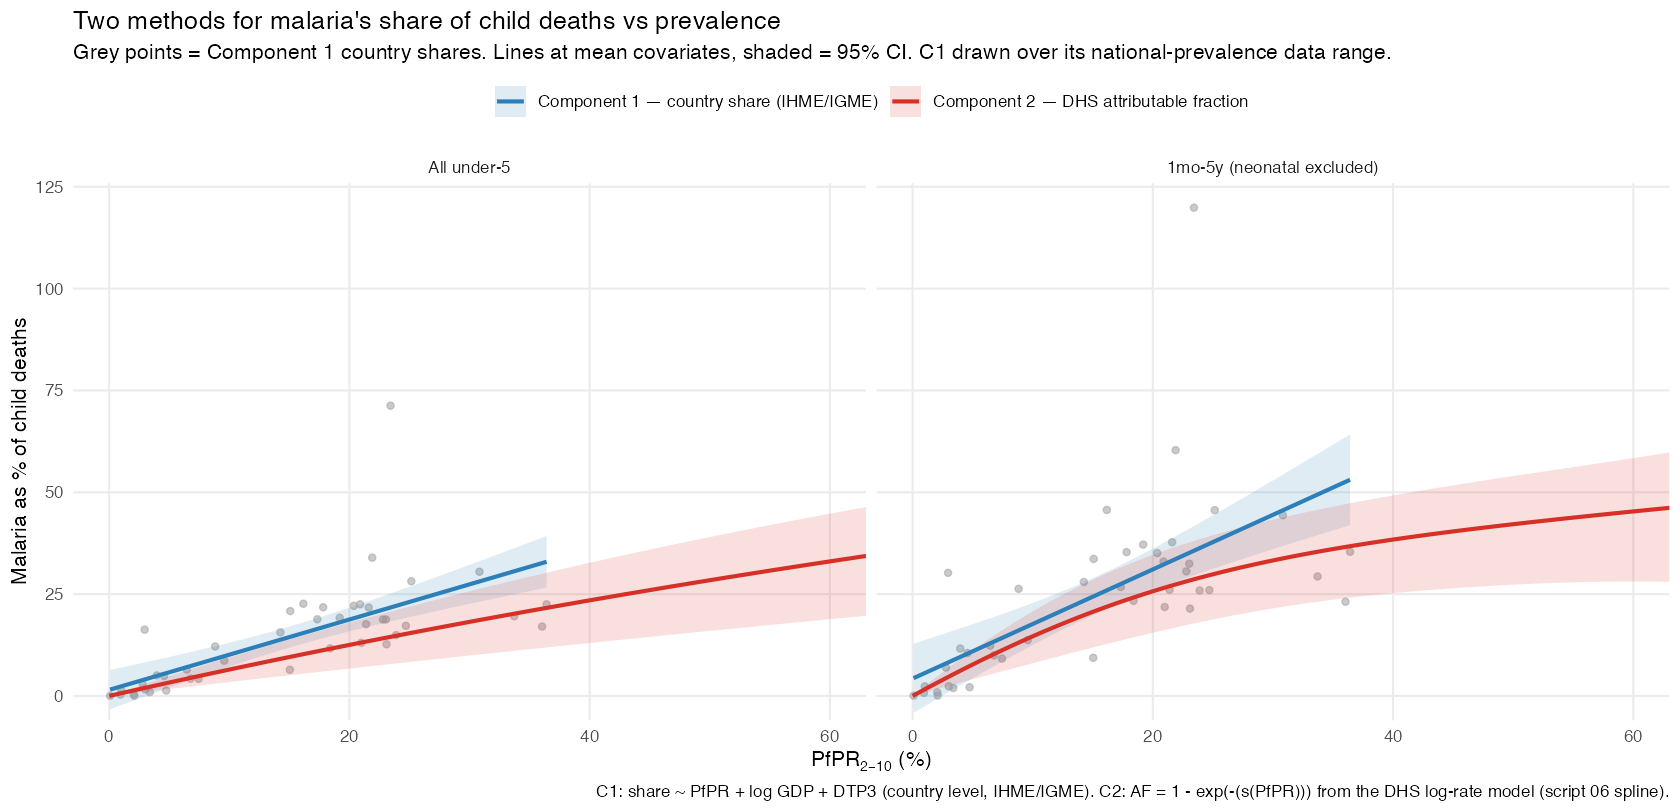
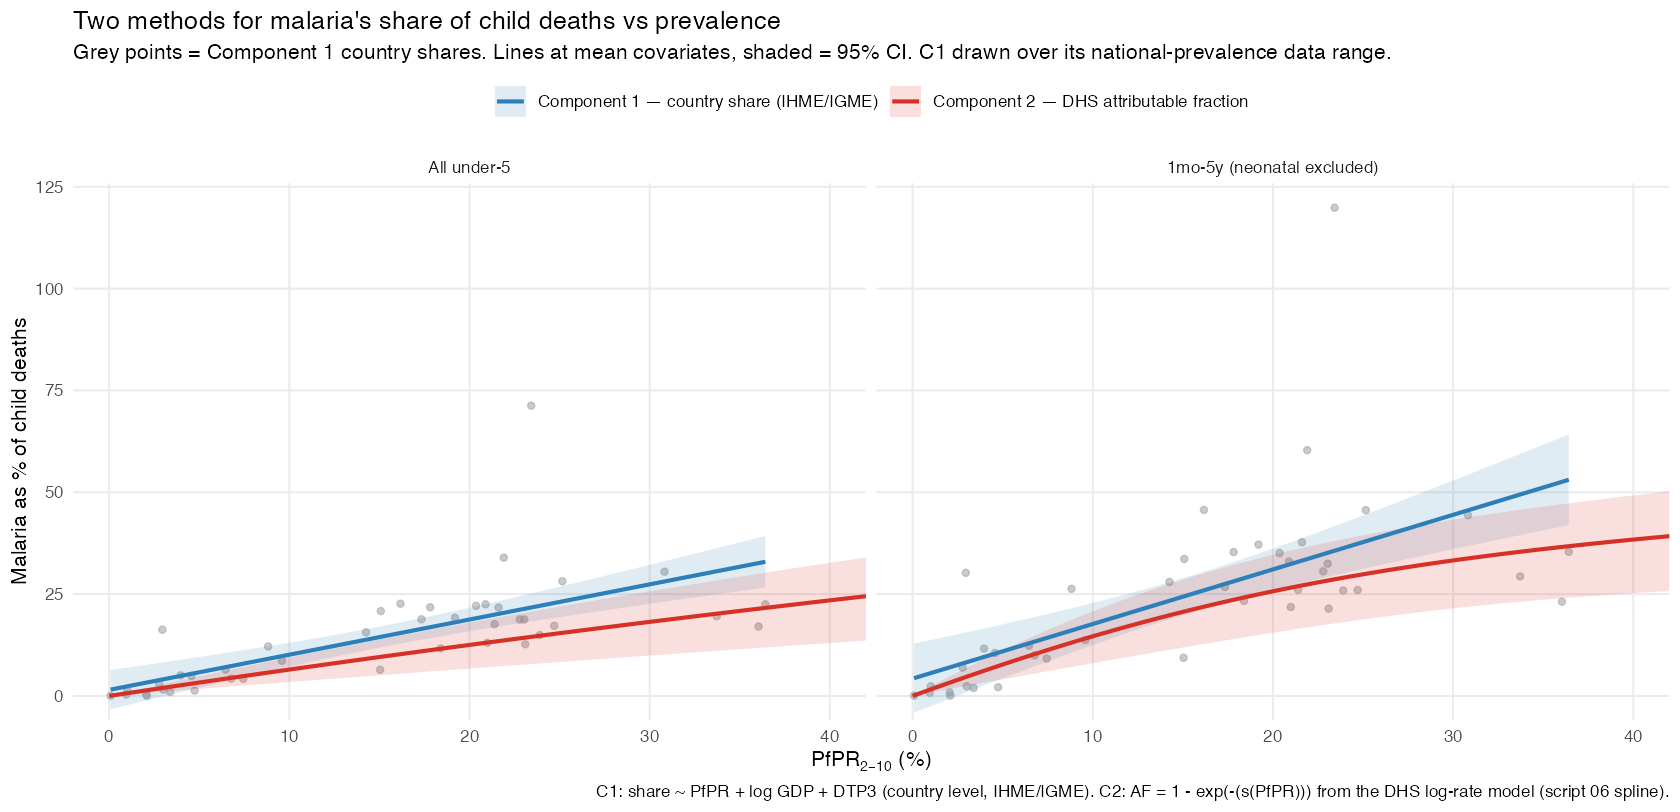
Cap method-comparison x-axis at 40%; embed figure in SUMMARY.md
Truncate the method-comparison plot to PfPR2-10 0-40% (covers Component 1's
national-prevalence data range) so the curves fill the panel, and add a
'Comparing the two methods' section to SUMMARY.md with the figure.

Changed region(s): [[0.5262, 0.5234, 1.0, 0.8621], [0.0619, 0.6158, 0.5262, 0.8621]]

diff --git a/SUMMARY.md b/SUMMARY.md
@@ -149,6 +149,24 @@ counterfactual (vs zero-transmission) fractions assuming the adjusted associatio
 
 ---
 
+## Comparing the two methods
+
+Both components estimate the same quantity — malaria as a **% of child deaths** — so they can be
+overlaid on shared axes. Component 1 is the country-level share (points = IHME ÷ IGME per country;
+line = fitted `share ~ PfPR + log GDP + DTP3` at mean covariates); Component 2 is the DHS
+attributable-fraction spline. Drawn over Component 1's national-prevalence range (to ~40%).
+
+![Method comparison: Component 1 share vs Component 2 attributable fraction](results/method_comparison.png)
+
+The routes **broadly agree** and their 95% bands overlap throughout. For **all under-5** the two
+track the country cloud closely, Component 2 running slightly below Component 1. For **1mo–5y** both
+rise more steeply once neonatal deaths are removed; they coincide at low–mid transmission and diverge
+at the top of the range, where Component 1 extrapolates roughly linearly while Component 2 begins to
+plateau. That two independent data sources (IHME/IGME country totals vs DHS survey mortality) and two
+different models land on a similar prevalence–share relationship is the main cross-check of the work.
+
+---
+
 ## National malaria-burden estimates (PfPR₂₋₁₀ > 10%)
 
 Applying both methods to a common denominator — all-cause child deaths = mortality rate × live
